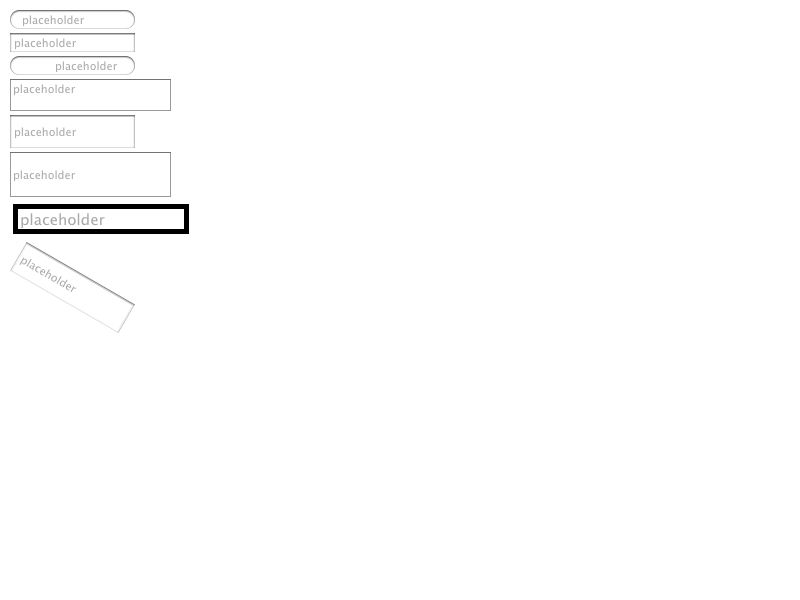
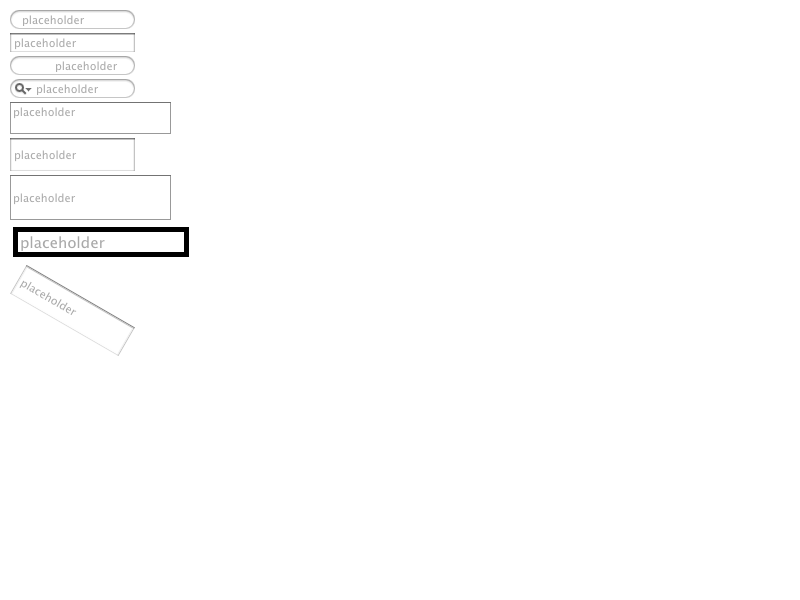
Source/WebCore: Fix for for https://bugs.webkit.org/show_bug.cgi?id=54402 REGRESSION (r72052): Placeholder text doesn't have the right padding for search fields on Windows
Reviewed by Dan Bernstein.

Test: updated fast/forms/placeholder-position.html and tested manually

Consider padding and margin for the results and cancel buttons.  This is important for the Windows
theme which uses padding to correctly position those buttons.  This change fixes the placeholder
position, and also better aligns the results popup list with the actual text you type.

* rendering/RenderTextControlSingleLine.cpp:
(WebCore::RenderTextControlSingleLine::clientPaddingLeft):
(WebCore::RenderTextControlSingleLine::clientPaddingRight):

LayoutTests: Test for https://bugs.webkit.org/show_bug.cgi?id=54402
REGRESSION (r72052): Placeholder text doesn't have the right padding for search fields on Windows

Reviewed by Dan Bernstein.

Unfortunately, this doesn't test the Windows theme, since DRT uses the Safari theme, but I also tested this change manually on Windows and Mac.

* fast/forms/placeholder-position.html: Added a case for a search field with the results button.
* platform/mac/fast/forms/placeholder-position-expected.checksum:
* platform/mac/fast/forms/placeholder-position-expected.png:
* platform/mac/fast/forms/placeholder-position-expected.txt:

Identifier: 69207@main
git-svn-id: https://svn.webkit.org/repository/webkit/trunk@79284 268f45cc-cd09-0410-ab3c-d52691b4dbfc

Changed region(s): [[0.0, 0.12, 0.25, 0.54]]

diff --git a/LayoutTests/fast/forms/placeholder-position.html b/LayoutTests/fast/forms/placeholder-position.html
@@ -1,9 +1,10 @@
 <!-- This tests that the placeholder is positioned correctly in different kinds of elements -->
-<input  type="search" placeholder="placeholder"><br>
-<input  type="text" placeholder="placeholder"><br>
-<input  type="search" placeholder="placeholder" style="direction: rtl"><br>
+<input type="search" placeholder="placeholder"><br>
+<input type="text" placeholder="placeholder"><br>
+<input type="search" placeholder="placeholder" style="direction: rtl"><br>
+<input type="search" placeholder="placeholder" results=5><br>
 <textarea placeholder="placeholder"></textarea><br>
 <input type="text" placeholder="placeholder" style="padding-bottom: 15px;"><br>
 <textarea placeholder="placeholder" style="padding-top: 15px;"></textarea><br>
-<input  type="text" placeholder="placeholder" style="font-size: 15px; border: solid 5px black; margin: 5px;"><br>
+<input type="text" placeholder="placeholder" style="font-size: 15px; border: solid 5px black; margin: 5px;"><br>
 <input type="text" placeholder="placeholder" style="padding-top: 15px; -webkit-transform: translateY(30px) rotateZ(30deg)"><br>

diff --git a/Source/WebCore/rendering/RenderTextControlSingleLine.cpp b/Source/WebCore/rendering/RenderTextControlSingleLine.cpp
@@ -941,7 +941,7 @@ int RenderTextControlSingleLine::clientPaddingLeft() const
     int padding = paddingLeft();
 
     if (RenderBox* resultsRenderer = m_resultsButton ? m_resultsButton->renderBox() : 0)
-        padding += resultsRenderer->width();
+        padding += resultsRenderer->width() + resultsRenderer->marginLeft() + resultsRenderer->paddingLeft() + resultsRenderer->marginRight() + resultsRenderer->paddingRight();
 
     return padding;
 }
@@ -951,7 +951,7 @@ int RenderTextControlSingleLine::clientPaddingRight() const
     int padding = paddingRight();
 
     if (RenderBox* cancelRenderer = m_cancelButton ? m_cancelButton->renderBox() : 0)
-        padding += cancelRenderer->width();
+        padding += cancelRenderer->width() + cancelRenderer->marginLeft() + cancelRenderer->paddingLeft() + cancelRenderer->marginRight() + cancelRenderer->paddingRight();
 
     return padding;
 }
